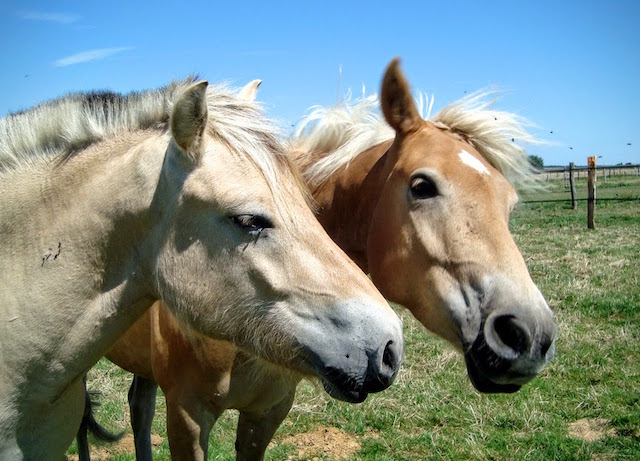
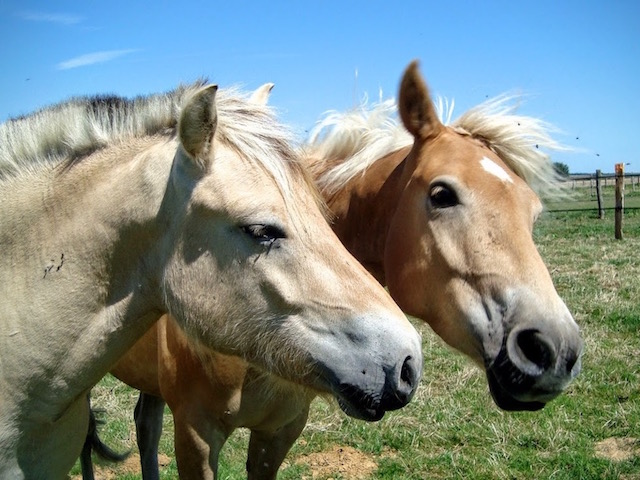
Adding caption

diff --git a/src/partials/asyncImage.html b/src/partials/asyncImage.html
@@ -1,19 +1,22 @@
-<noscript>
-  <img src="{{{url}}}.jpg?v={{version}}" width="{{width}}" alt="{{alt}}" class="{{class}}" srcset="{{{url}}}.jpg?v={{version}}, {{{url}}}-640.jpg?v={{version}} 640w">
-</noscript>
-<div class="throbber {{class}}" id="{{{name}}}-throbber">
-  <div class="bounce1"></div>
-  <div class="bounce2"></div>
-  <div class="bounce3"></div>
-</div>
-<script type="text/javascript">
-  var {{{name}}} = new Image();
-  {{{name}}}.onload = function () {
-    document.getElementById('{{{container}}}').appendChild({{{name}}});
-    document.getElementById('{{{name}}}-throbber').style.display = 'none';
-  };
-  {{{name}}}.srcset = '{{{url}}}.jpg?v={{version}}, {{{url}}}-640.jpg?v={{version}} 640w';
-  {{{name}}}.src = '{{{url}}}.jpg?v={{version}}';
-  {{{name}}}.alt = '{{alt}}';
-  {{{name}}}.setAttribute('class', '{{class}}');
-</script>
+<figure id="{{{name}}}-figure" class="{{class}}">
+  <noscript>
+    <img src="{{{url}}}.jpg?v={{version}}" width="{{width}}" alt="{{alt}}" srcset="{{{url}}}.jpg?v={{version}}, {{{url}}}-640.jpg?v={{version}} 640w">
+  </noscript>
+  <div class="throbber {{class}}" id="{{{name}}}-throbber">
+    <div class="bounce1"></div>
+    <div class="bounce2"></div>
+    <div class="bounce3"></div>
+  </div>
+  <script type="text/javascript">
+    document.getElementById('{{{name}}}-throbber').style.display = 'inline-block';
+    var {{{name}}} = new Image();
+    {{{name}}}.onload = function () {
+      document.getElementById('{{{name}}}-figure').insertBefore({{{name}}}, document.getElementById('{{{name}}}-caption'));
+      document.getElementById('{{{name}}}-throbber').style.display = 'none';
+    };
+    {{{name}}}.srcset = '{{{url}}}.jpg?v={{version}}, {{{url}}}-640.jpg?v={{version}} 640w';
+    {{{name}}}.src = '{{{url}}}.jpg?v={{version}}';
+    {{{name}}}.alt = '{{alt}}';
+  </script>
+  <figcaption id="{{{name}}}-caption">{{{alt}}}</figcaption>
+</figure>

diff --git a/src/css/style.less b/src/css/style.less
@@ -50,10 +50,23 @@ address {
   font-style: normal;
 }
 
-img, .full {
+figure {
   width: 90%;
-  border: 2px solid white;
+  display: inline-block;
+  margin: 0;
+  padding: 0;
+  border: 0;
+}
+
+figcaption {
+  font-style: italic;
+  color: @dark;
+}
+
+img {
+  width: 100%;
   border-radius: 10px;
+  border: 2px solid white;
 }
 
 .half {
@@ -132,7 +145,7 @@ img, .full {
     .smallPadding;
   }
 
-  img, iframe, img.half {
+  iframe, .half {
     width: 100%;
   }
   
@@ -168,7 +181,7 @@ img, .full {
 
 .throbber {
   margin: 100px auto 0;
-  display: inline-block;
+  display: none;
   text-align: center;
 }
 
